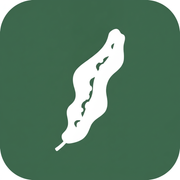
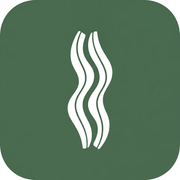
feat: ヒーロー背景画像追加, ファビコン昆布アイコン再生成, 商品OGP動的生成修正(Edge→Node.js)

diff --git a/src/app/product/[id]/opengraph-image.tsx b/src/app/product/[id]/opengraph-image.tsx
@@ -1,13 +1,14 @@
 import { ImageResponse } from "next/og";
-import { prisma } from "@/lib/prisma";
 import { CATEGORIES, type CategorySlug, SITE_NAME } from "@/lib/constants";
 
-export const runtime = "edge";
 export const size = { width: 1200, height: 630 };
 export const contentType = "image/png";
 
 export default async function Image({ params }: { params: Promise<{ id: string }> }) {
   const { id } = await params;
+
+  // Edge Runtime不可のため、fetch経由でデータ取得
+  const { prisma } = await import("@/lib/prisma");
   const product = await prisma.product.findUnique({
     where: { id: Number(id) },
     select: { name: true, brand: true, category: true, price: true, origin: true, imageUrl: true },
@@ -36,37 +37,24 @@ export default async function Image({ params }: { params: Promise<{ id: string }
           fontFamily: "sans-serif",
         }}
       >
-        {/* 左: 商品画像 */}
-        <div style={{ display: "flex", alignItems: "center", justifyContent: "center", width: "400px", height: "100%", marginRight: "48px" }}>
+        <div style={{ display: "flex", alignItems: "center", justifyContent: "center", width: "380px", marginRight: "48px" }}>
           {product.imageUrl ? (
-            <img src={product.imageUrl} width={320} height={320} style={{ objectFit: "contain", borderRadius: "16px", background: "white", padding: "16px" }} />
+            <img src={product.imageUrl} width={300} height={300} style={{ objectFit: "contain", borderRadius: "16px", background: "white", padding: "16px" }} />
           ) : (
-            <div style={{ width: 320, height: 320, borderRadius: "16px", background: "rgba(255,255,255,0.1)", display: "flex", alignItems: "center", justifyContent: "center", fontSize: 80, color: "rgba(255,255,255,0.3)" }}>
-              K
-            </div>
+            <div style={{ width: 300, height: 300, borderRadius: "16px", background: "rgba(255,255,255,0.1)", display: "flex", alignItems: "center", justifyContent: "center", fontSize: 64, color: "rgba(255,255,255,0.2)" }}>K</div>
           )}
         </div>
-
-        {/* 右: テキスト */}
         <div style={{ display: "flex", flexDirection: "column", justifyContent: "center", flex: 1 }}>
-          {cat && (
-            <span style={{ fontSize: 16, color: "#b7e4c7", marginBottom: 8 }}>{cat.label}</span>
-          )}
-          <span style={{ fontSize: 36, fontWeight: "bold", color: "white", lineHeight: 1.3, marginBottom: 12 }}>
-            {product.name.length > 40 ? product.name.substring(0, 40) + "..." : product.name}
+          {cat && <span style={{ fontSize: 16, color: "#b7e4c7", marginBottom: 8 }}>{cat.label}</span>}
+          <span style={{ fontSize: 32, fontWeight: "bold", color: "white", lineHeight: 1.3, marginBottom: 12 }}>
+            {product.name.length > 45 ? product.name.substring(0, 45) + "..." : product.name}
           </span>
           <span style={{ fontSize: 18, color: "#d8f3dc", marginBottom: 16 }}>{product.brand}</span>
           <div style={{ display: "flex", alignItems: "center", gap: "16px" }}>
-            {product.price && (
-              <span style={{ fontSize: 32, fontWeight: "bold", color: "#52b788" }}>&yen;{product.price.toLocaleString()}</span>
-            )}
-            {product.origin && (
-              <span style={{ fontSize: 16, color: "#b7e4c7" }}>{product.origin}</span>
-            )}
+            {product.price && <span style={{ fontSize: 28, fontWeight: "bold", color: "#52b788" }}>&yen;{product.price.toLocaleString()}</span>}
+            {product.origin && <span style={{ fontSize: 16, color: "#b7e4c7" }}>{product.origin}</span>}
           </div>
-          <div style={{ position: "absolute", bottom: 48, right: 48, fontSize: 18, color: "rgba(255,255,255,0.5)" }}>
-            {SITE_NAME}
-          </div>
+          <span style={{ position: "absolute", bottom: 48, right: 48, fontSize: 18, color: "rgba(255,255,255,0.4)" }}>{SITE_NAME}</span>
         </div>
       </div>
     ),

diff --git a/src/app/page.tsx b/src/app/page.tsx
@@ -1,4 +1,5 @@
 import Link from "next/link";
+import Image from "next/image";
 import { prisma } from "@/lib/prisma";
 import { CATEGORIES, CATEGORY_SLUGS, ORIGINS, SITE_NAME } from "@/lib/constants";
 import { ProductCard } from "@/components/ProductCard";
@@ -37,9 +38,10 @@ export default async function Home() {
       <JsonLd data={faqJsonLd} />
 
       {/* Hero */}
-      <section className="relative overflow-hidden bg-gradient-to-br from-[#1b4332] via-[#2d6a4f] to-[#40916c]">
-        <div className="absolute inset-0 opacity-10">
-          <div className="absolute inset-0 bg-[radial-gradient(circle_at_30%_50%,rgba(255,255,255,0.15),transparent_70%)]" />
+      <section className="relative overflow-hidden bg-[#1b4332]">
+        <div className="absolute inset-0">
+          <Image src="/hero.webp" alt="" fill className="object-cover opacity-30" priority sizes="100vw" />
+          <div className="absolute inset-0 bg-gradient-to-b from-[#1b4332]/60 via-[#1b4332]/40 to-[#1b4332]/80" />
         </div>
         <div className="relative mx-auto max-w-4xl px-4 sm:px-6 text-center">
           <div className="py-14 sm:py-20 lg:py-28">
